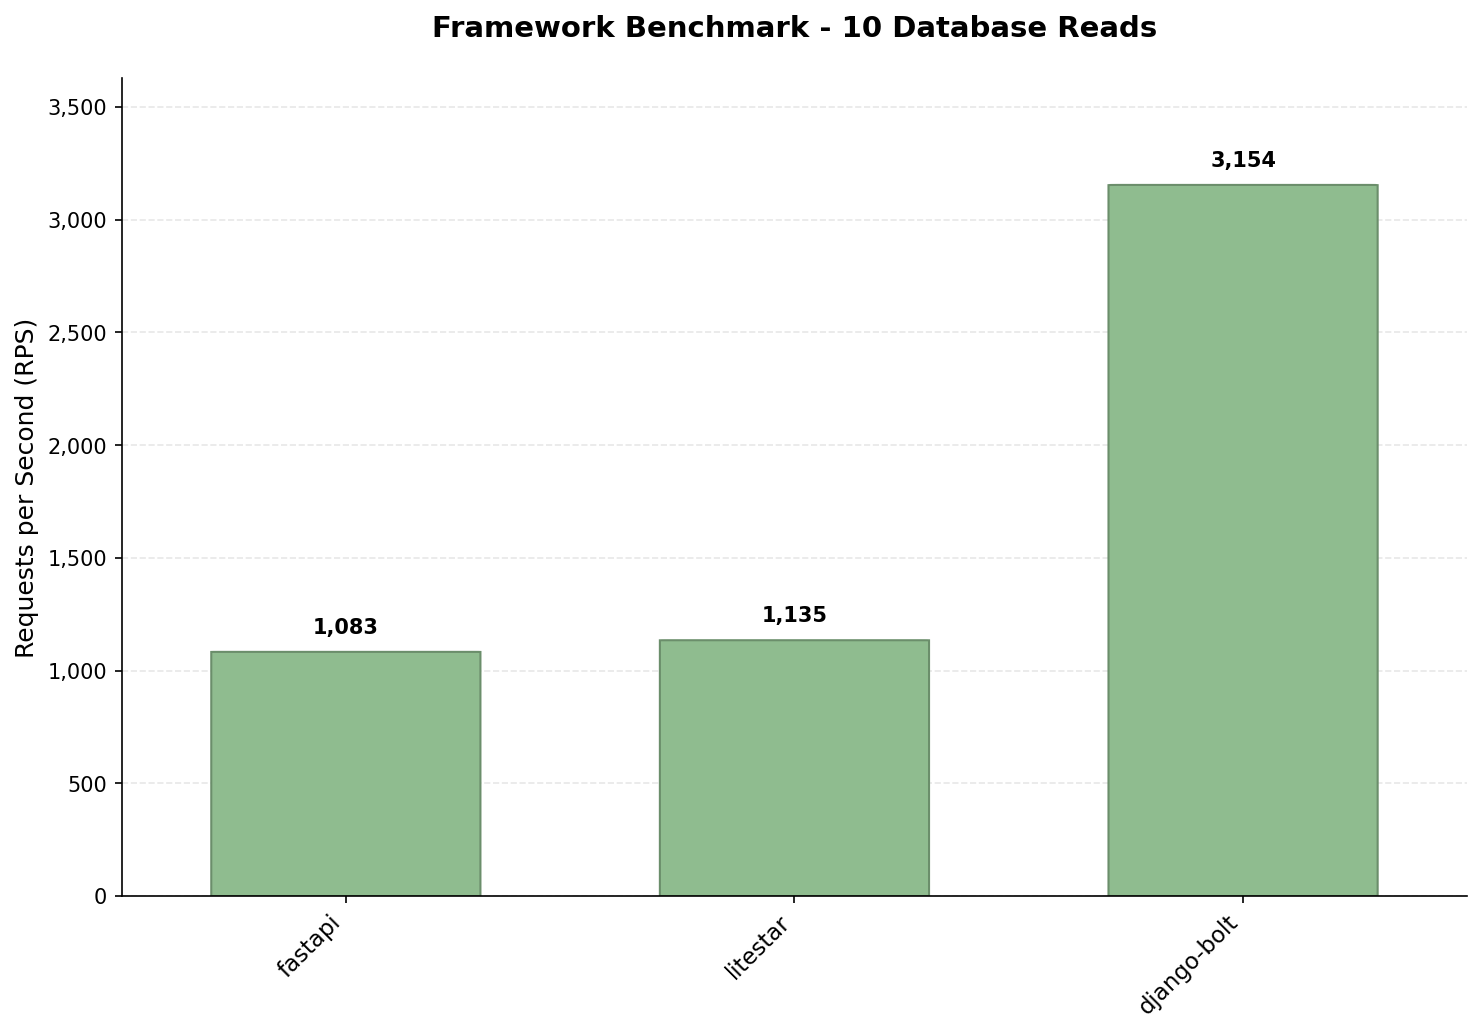
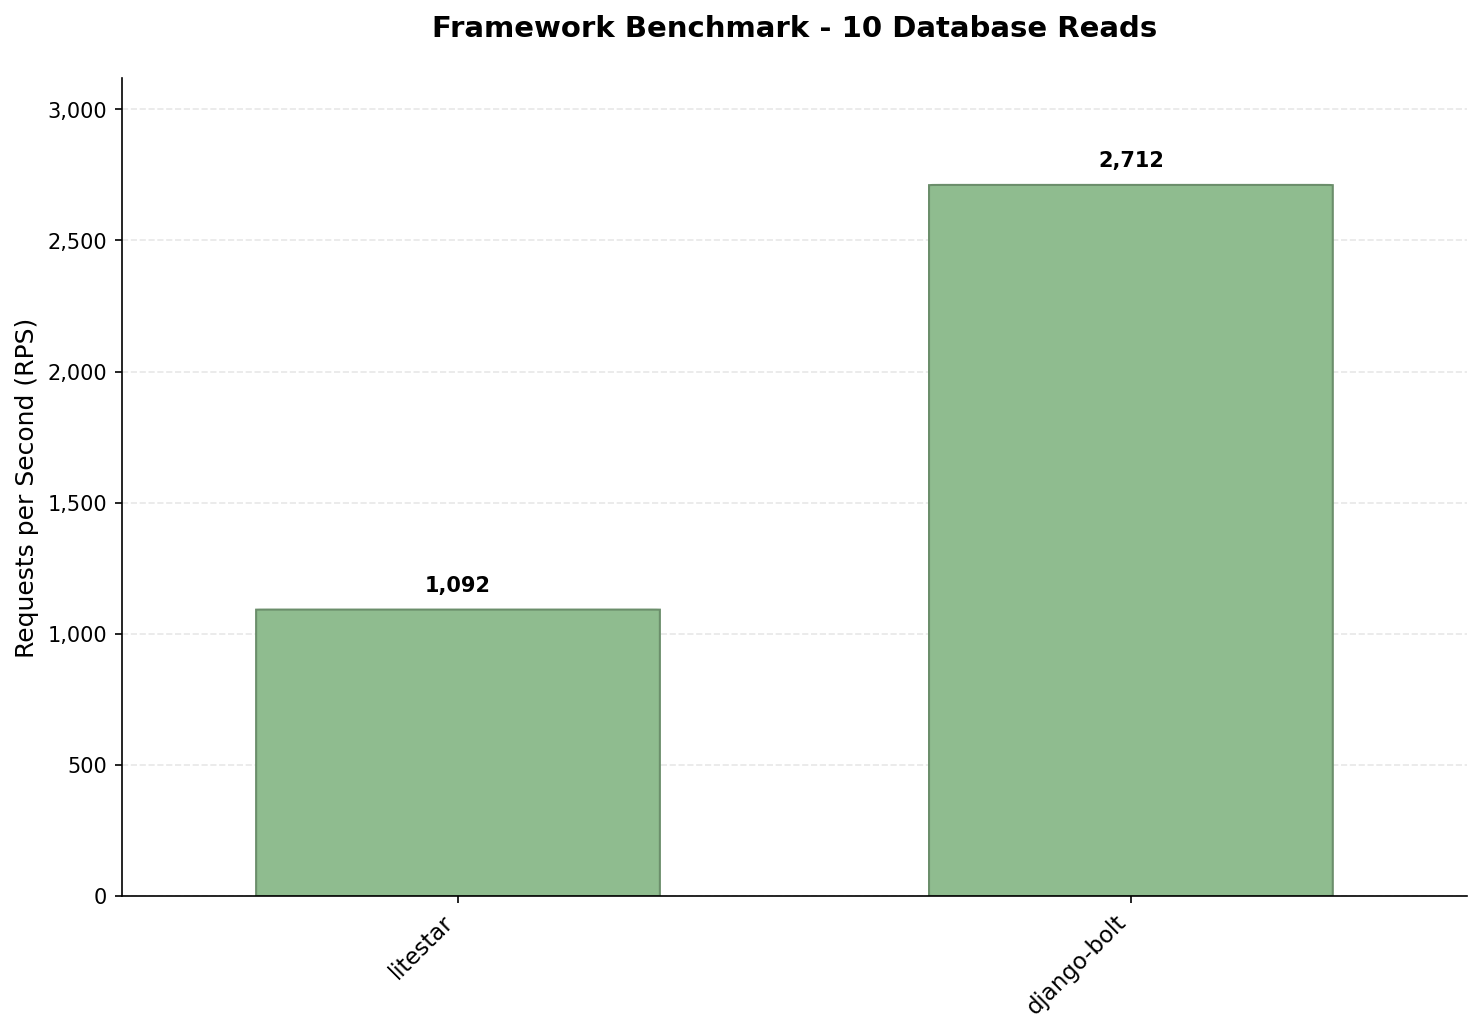
bench 0.7.0

diff --git a/litestar_app.py b/litestar_app.py
@@ -17,8 +17,22 @@ from litestar.di import Provide
 from sqlalchemy import select
 from sqlalchemy.ext.asyncio import AsyncSession, create_async_engine, async_sessionmaker
 
-from shared import data as test_data
-from shared.models import Base, User
+import test_data
+
+from sqlalchemy import Column, Integer, String, Boolean
+from sqlalchemy.orm import declarative_base
+
+Base = declarative_base()
+
+
+class User(Base):
+    __tablename__ = "users"
+    id = Column(Integer, primary_key=True, index=True)
+    username = Column(String(50), unique=True, index=True, nullable=False)
+    email = Column(String(100), unique=True, index=True, nullable=False)
+    first_name = Column(String(50), nullable=False, default="")
+    last_name = Column(String(50), nullable=False, default="")
+    is_active = Column(Boolean, default=True)
 
 
 class UserSchema(msgspec.Struct):
@@ -87,13 +101,13 @@ async def on_startup():
 @get("/json-1k")
 async def json_1k() -> list[ItemSchema]:
     """Return ~1KB JSON response."""
-    return [ItemSchema(**item) for item in test_data.JSON_1K]
+    return test_data.JSON_1K
 
 
 @get("/json-10k")
-async def json_10k() -> list[ItemSchema]:
+async def json_10k()-> list[ItemSchema]:
     """Return ~10KB JSON response."""
-    return [ItemSchema(**item) for item in test_data.JSON_10K]
+    return test_data.JSON_10K
 
 
 @get("/db", dependencies={"db": Provide(get_db)})

diff --git a/fastapi_app.py b/fastapi_app.py
@@ -17,8 +17,49 @@ from fastapi import FastAPI, Depends
 from sqlalchemy import select
 from sqlalchemy.ext.asyncio import AsyncSession, create_async_engine, async_sessionmaker
 
-from shared import data as test_data
-from shared.models import Base, User, UserResponse, Item, SlowResponse
+import test_data
+
+from pydantic import BaseModel
+from sqlalchemy import Column, Integer, String, Boolean
+from sqlalchemy.orm import declarative_base
+
+Base = declarative_base()
+
+
+class User(Base):
+    __tablename__ = "users"
+    id = Column(Integer, primary_key=True, index=True)
+    username = Column(String(50), unique=True, index=True, nullable=False)
+    email = Column(String(100), unique=True, index=True, nullable=False)
+    first_name = Column(String(50), nullable=False, default="")
+    last_name = Column(String(50), nullable=False, default="")
+    is_active = Column(Boolean, default=True)
+
+
+class UserResponse(BaseModel):
+    id: int
+    username: str
+    email: str
+    first_name: str
+    last_name: str
+    is_active: bool
+    class Config:
+        from_attributes = True
+
+
+class Item(BaseModel):
+    id: int
+    name: str
+    description: str
+    price: float
+    category: str
+    in_stock: bool
+    tags: list[str]
+
+
+class SlowResponse(BaseModel):
+    status: str
+    delay_seconds: int
 
 
 # Database setup

diff --git a/django_project/api.py b/django_project/api.py
@@ -36,21 +36,30 @@ class UserSchema(msgspec.Struct):
     last_name: str
     is_active: bool
 
+class ItemSchema(msgspec.Struct):
+    id: int
+    name: str
+    description: str
+    price: float
+    category: str
+    in_stock: bool
+    tags: list[str]
 
-@api.get("/json-1k")
-async def json_1k():
+
+@api.get("/json-1k", validate_response=False)
+async def json_1k() -> list[ItemSchema]:
     """Return ~1KB JSON response."""
     return test_data.JSON_1K
 
 
-@api.get("/json-10k")
-async def json_10k():
+@api.get("/json-10k", validate_response=False)
+async def json_10k() -> list[ItemSchema]:
     """Return ~10KB JSON response."""
     return test_data.JSON_10K
 
 
-@api.get("/db", response_model=list[UserSchema])
-async def db_read():
+@api.get("/db",validate_response=False)
+async def db_read() -> list[UserSchema]:
     """Read 10 users from database."""
     users = []
     async for user in BenchmarkUser.objects.all()[:10]:

diff --git a/BENCHMARK_RESULTS.md b/BENCHMARK_RESULTS.md
@@ -1,6 +1,6 @@
 # Framework Benchmark Results
 
-**Date:** 2026-02-23 00:11:27
+**Date:** 2026-03-09 21:40:40
 
 ## Configuration
 
@@ -24,30 +24,26 @@
 
 | Framework | RPS | Latency (avg) | Latency (p99) | Errors |
 |-----------|----:|-------------:|-------------:|-------:|
-| litestar | 30,925 | 0.00ms | 0.00ms | 0 |
-| django-bolt | 22,979 | 0.00ms | 0.00ms | 0 |
-| fastapi | 20,568 | 0.00ms | 0.00ms | 0 |
+| django-bolt | 29,680 | 0.00ms | 0.00ms | 0 |
+| litestar | 27,427 | 0.00ms | 0.00ms | 0 |
 
 ### /json-10k
 
 | Framework | RPS | Latency (avg) | Latency (p99) | Errors |
 |-----------|----:|-------------:|-------------:|-------:|
-| litestar | 19,708 | 0.01ms | 0.00ms | 0 |
-| django-bolt | 18,274 | 0.01ms | 0.00ms | 0 |
-| fastapi | 8,954 | 0.01ms | 0.00ms | 0 |
+| django-bolt | 22,179 | 0.00ms | 0.00ms | 0 |
+| litestar | 21,361 | 0.00ms | 0.00ms | 0 |
 
 ### /db
 
 | Framework | RPS | Latency (avg) | Latency (p99) | Errors |
 |-----------|----:|-------------:|-------------:|-------:|
-| django-bolt | 3,154 | 0.03ms | 0.00ms | 0 |
-| litestar | 1,135 | 0.09ms | 0.00ms | 0 |
-| fastapi | 1,083 | 0.09ms | 0.00ms | 0 |
+| django-bolt | 2,712 | 0.04ms | 0.00ms | 0 |
+| litestar | 1,092 | 0.09ms | 0.00ms | 0 |
 
 ## Summary (RPS by Endpoint)
 
 | Framework | /json-1k | /json-10k | /db |
 |-----------|--------:|--------:|--------:|
-| django-bolt | 22,979 | 18,274 | 3,154 |
-| fastapi | 20,568 | 8,954 | 1,083 |
-| litestar | 30,925 | 19,708 | 1,135 |
+| django-bolt | 29,680 | 22,179 | 2,712 |
+| litestar | 27,427 | 21,361 | 1,092 |
